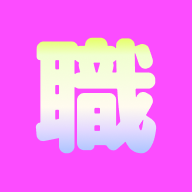
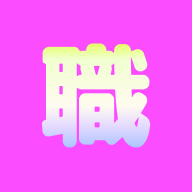
refactor: スプラッシュ画面を削除し、アイコンを更新

diff --git a/pages/index.tsx b/pages/index.tsx
@@ -1,23 +1,7 @@
 'use client';
 
-import { useEffect, useState } from 'react';
-import SplashPage from '@/components/SplashPage';
-import StartPage from '@/components/StartPage'; // これまで使っていた診断スタート画面
+import StartPage from '@/components/StartPage'; // 診断スタート画面（職業診断トップ）
 
 export default function Home() {
-  const [showSplash, setShowSplash] = useState(true);
-
-  useEffect(() => {
-    const timer = setTimeout(() => {
-      setShowSplash(false);
-    }, 2000); // 2秒間だけスプラッシュ
-
-    return () => clearTimeout(timer);
-  }, []);
-
-  return (
-    <>
-      {showSplash ? <SplashPage /> : <StartPage />}
-    </>
-  );
+  return <StartPage />;
 }
